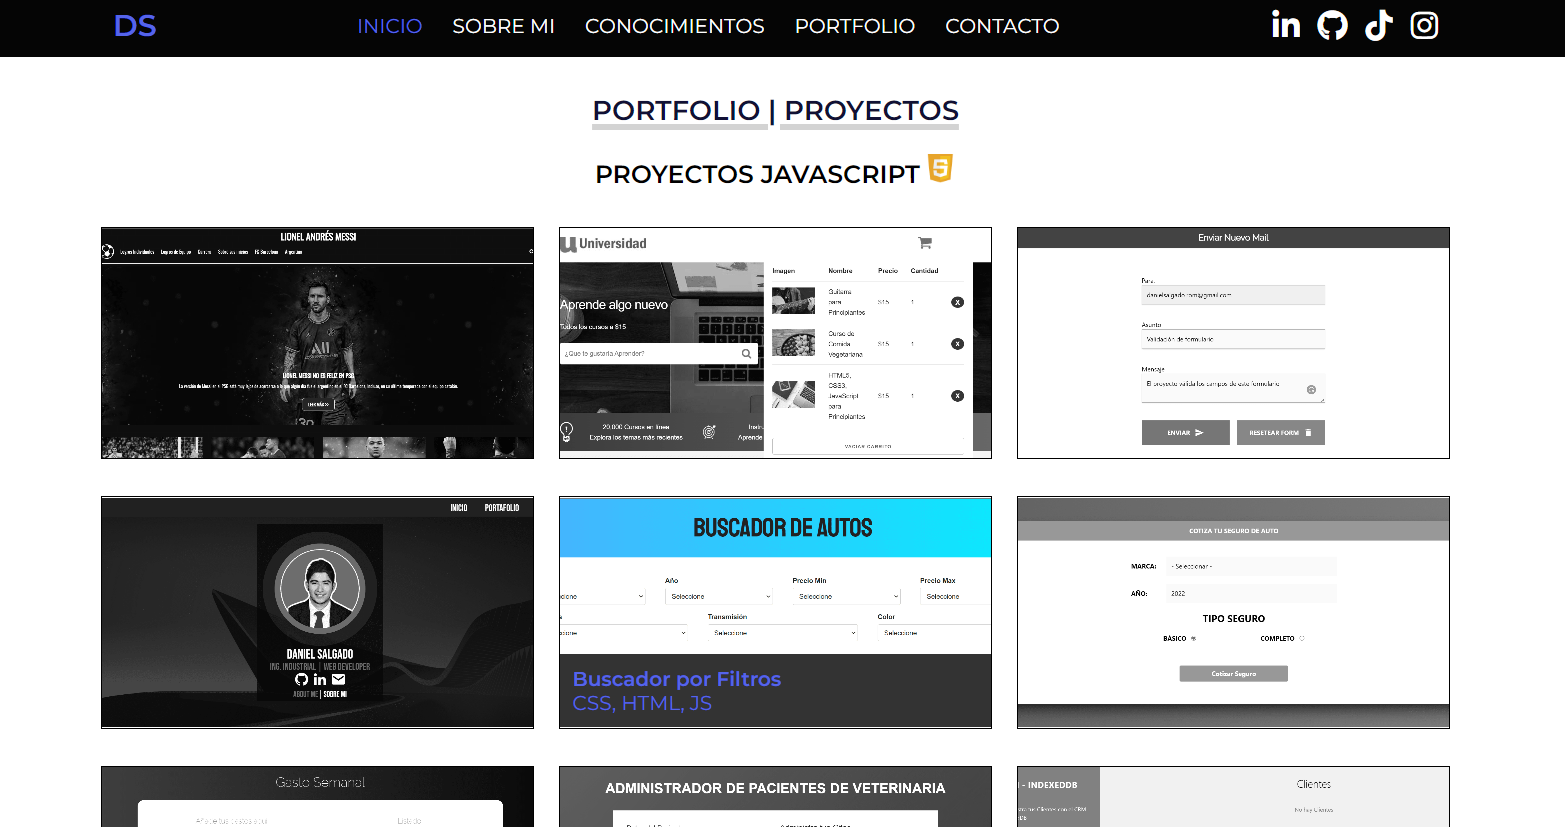
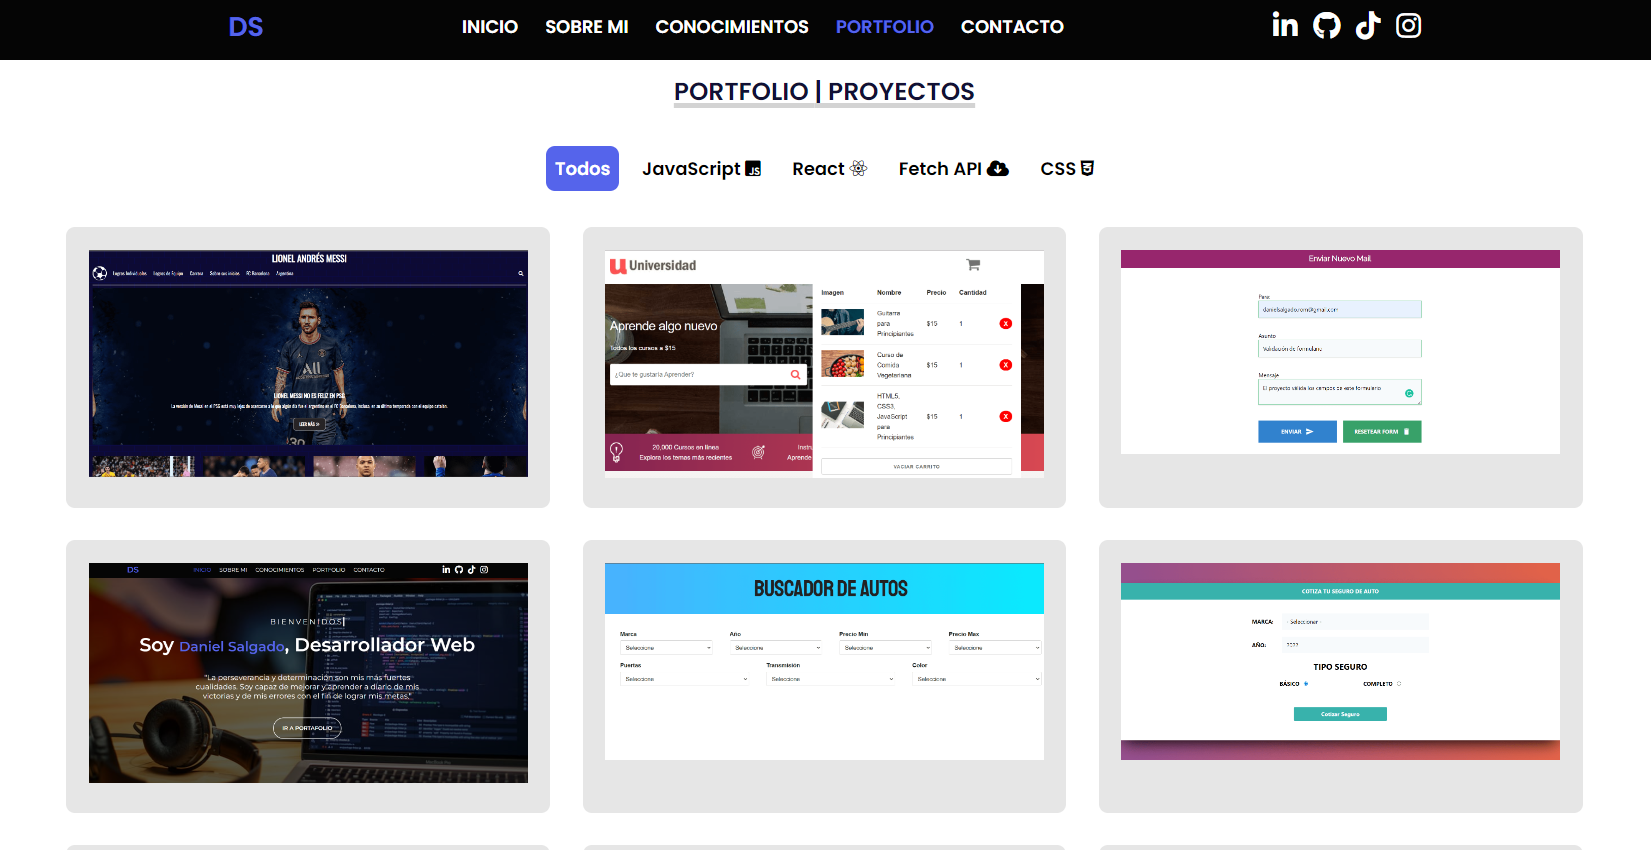
Aplicación React Agregada

diff --git a/index.html b/index.html
@@ -184,8 +184,8 @@
 
         <div class="work__filters">
             <span class="work__item active-work" data-filter="all">Todos</span>
-            <span class="work__item" data-filter=".react">React <i class="fa-brands fa-react"></i></span>
             <span class="work__item" data-filter=".js">JavaScript <i class="fa-brands fa-square-js"></i></span>
+            <span class="work__item" data-filter=".react">React <i class="fa-brands fa-react"></i></span>
             <span class="work__item" data-filter=".fe">Fetch API <i class="fa-solid fa-cloud-arrow-down"></i></span>
             <span class="work__item" data-filter=".css">CSS <i class="fa-brands fa-css3-alt"></i></span>
         </div>
@@ -301,10 +301,10 @@
 
             <div class="proyecto mix react">
                 <div class="overlay"></div>
-                    <a data-modal-id="pw-criptomonedas"><img src="img/img14-1.png" alt=""></a>
+                    <a data-modal-id="pw-gifs"><img src="img/img15-1.png" alt=""></a>
                 <div class="info">
-                    <h4>Proyecto API Criptomonedas</h4>
-                    <p>CSS, HTML, JS, FETCH API</p>
+                    <h4>Proyecto API GIFs</h4>
+                    <p>REACT, FETCH API, CSS</p>
                 </div>
             </div>
     </div>
@@ -635,6 +635,34 @@
                 </div>
             </div>
         </div>
+
+        
+        <div id="pw-gifs" class="eins-modal" data-options="openTransition: expandIn; openDuration: 200;">
+            <div class="eins-modal-content">
+                <div class="eins-modal-close"> </div>
+                <div class="pw-content">
+                    <div class="eins-modal-preview">
+                        <img src="img/img15.png" alt="">
+                        <img src="img/img15-1.png" alt="">
+                    </div>
+                    <div class="eins-modal-text">
+                        <p>Aplicación React utilizando Hooks useState, useEffect y CustomHooks para crear una búsqueda de Gifs extrayendo información de una API externa con Fetch API y Async Await.</p>
+                    <div class="eins-modal-text-2">
+                        <span><i class="fa-brands fa-github">&nbsp;&nbsp;</i></span><a href="https://github.com/danielsalvas/Gif-Expert-App" target="_blank">Ver Código</a> <br>
+                        <span><i class="fa-solid fa-arrow-up-right-from-square">&nbsp;&nbsp;</i></span><a href="http://gifs.danisalgado.com/" target="_blank">Ver proyecto: "Gif Expert App"</a>
+                    </div>
+                    <div class="eins-modal-text-3">
+                        <span>Tecnologías utilizadas</span>
+                        <div class="eins-modal-tec">
+                            <img src="img/css-icon.png" alt="">
+                            <img src="img/js-icon.png" alt="">
+                            <img src="img/react-icon.png" alt="">
+                        </div>
+                    </div>
+                    </div>          
+                </div>
+            </div>
+        </div>
     </section>
 
     <!-- SECCION CONTACTO -->
@@ -671,6 +699,7 @@
         </div>
     </footer>
 
+    <script src="/mixitup.js"></script>
     <script src="/mixitup.min.js"></script>
     <script src="/node_modules/eins-modal/dist/js/eins-modal.min.js"></script>
     <script src="/script.js"></script>

diff --git a/styles.css b/styles.css
@@ -433,26 +433,27 @@ html {
 
 .proyecto img{
     width: 100%;
-    height: auto;
+    height: 100%;
     object-fit: cover;
     transition: .5s;
 }
 
 #portfolio .proyecto:hover img {
     cursor: pointer;
-    filter: grayscale(0);
 }
 
 #portfolio .proyecto .info{
     position: absolute;
     left: 0;
     background-color: rgba(0,0,0,.8);
-    color: var(--primary);
+    color: white;
     width: 100%;
-    padding: 10px;
+    padding: 10px 0;
     opacity: 0;
     bottom: -40px;
     transition: .5s;
+    text-transform: uppercase;
+    text-align: center;
 }
 
 #portfolio .proyecto:hover .info{
@@ -628,7 +629,7 @@ footer a{
 
 /* SECCION RESPONSIVE */
 
-@media screen and (max-width:800px){
+@media screen and (max-width:912px){
     
     nav {
         display: none;

diff --git a/script.js b/script.js
@@ -53,7 +53,7 @@ let mixerPortfolio = mixitup('.portfolio__container', {
         target: '.proyecto'
     },
     "animation": {
-        "duration": 292,
+        "duration": 300,
         "nudge": false,
         "reverseOut": false,
         "effects": "fade scale(0.01)"
